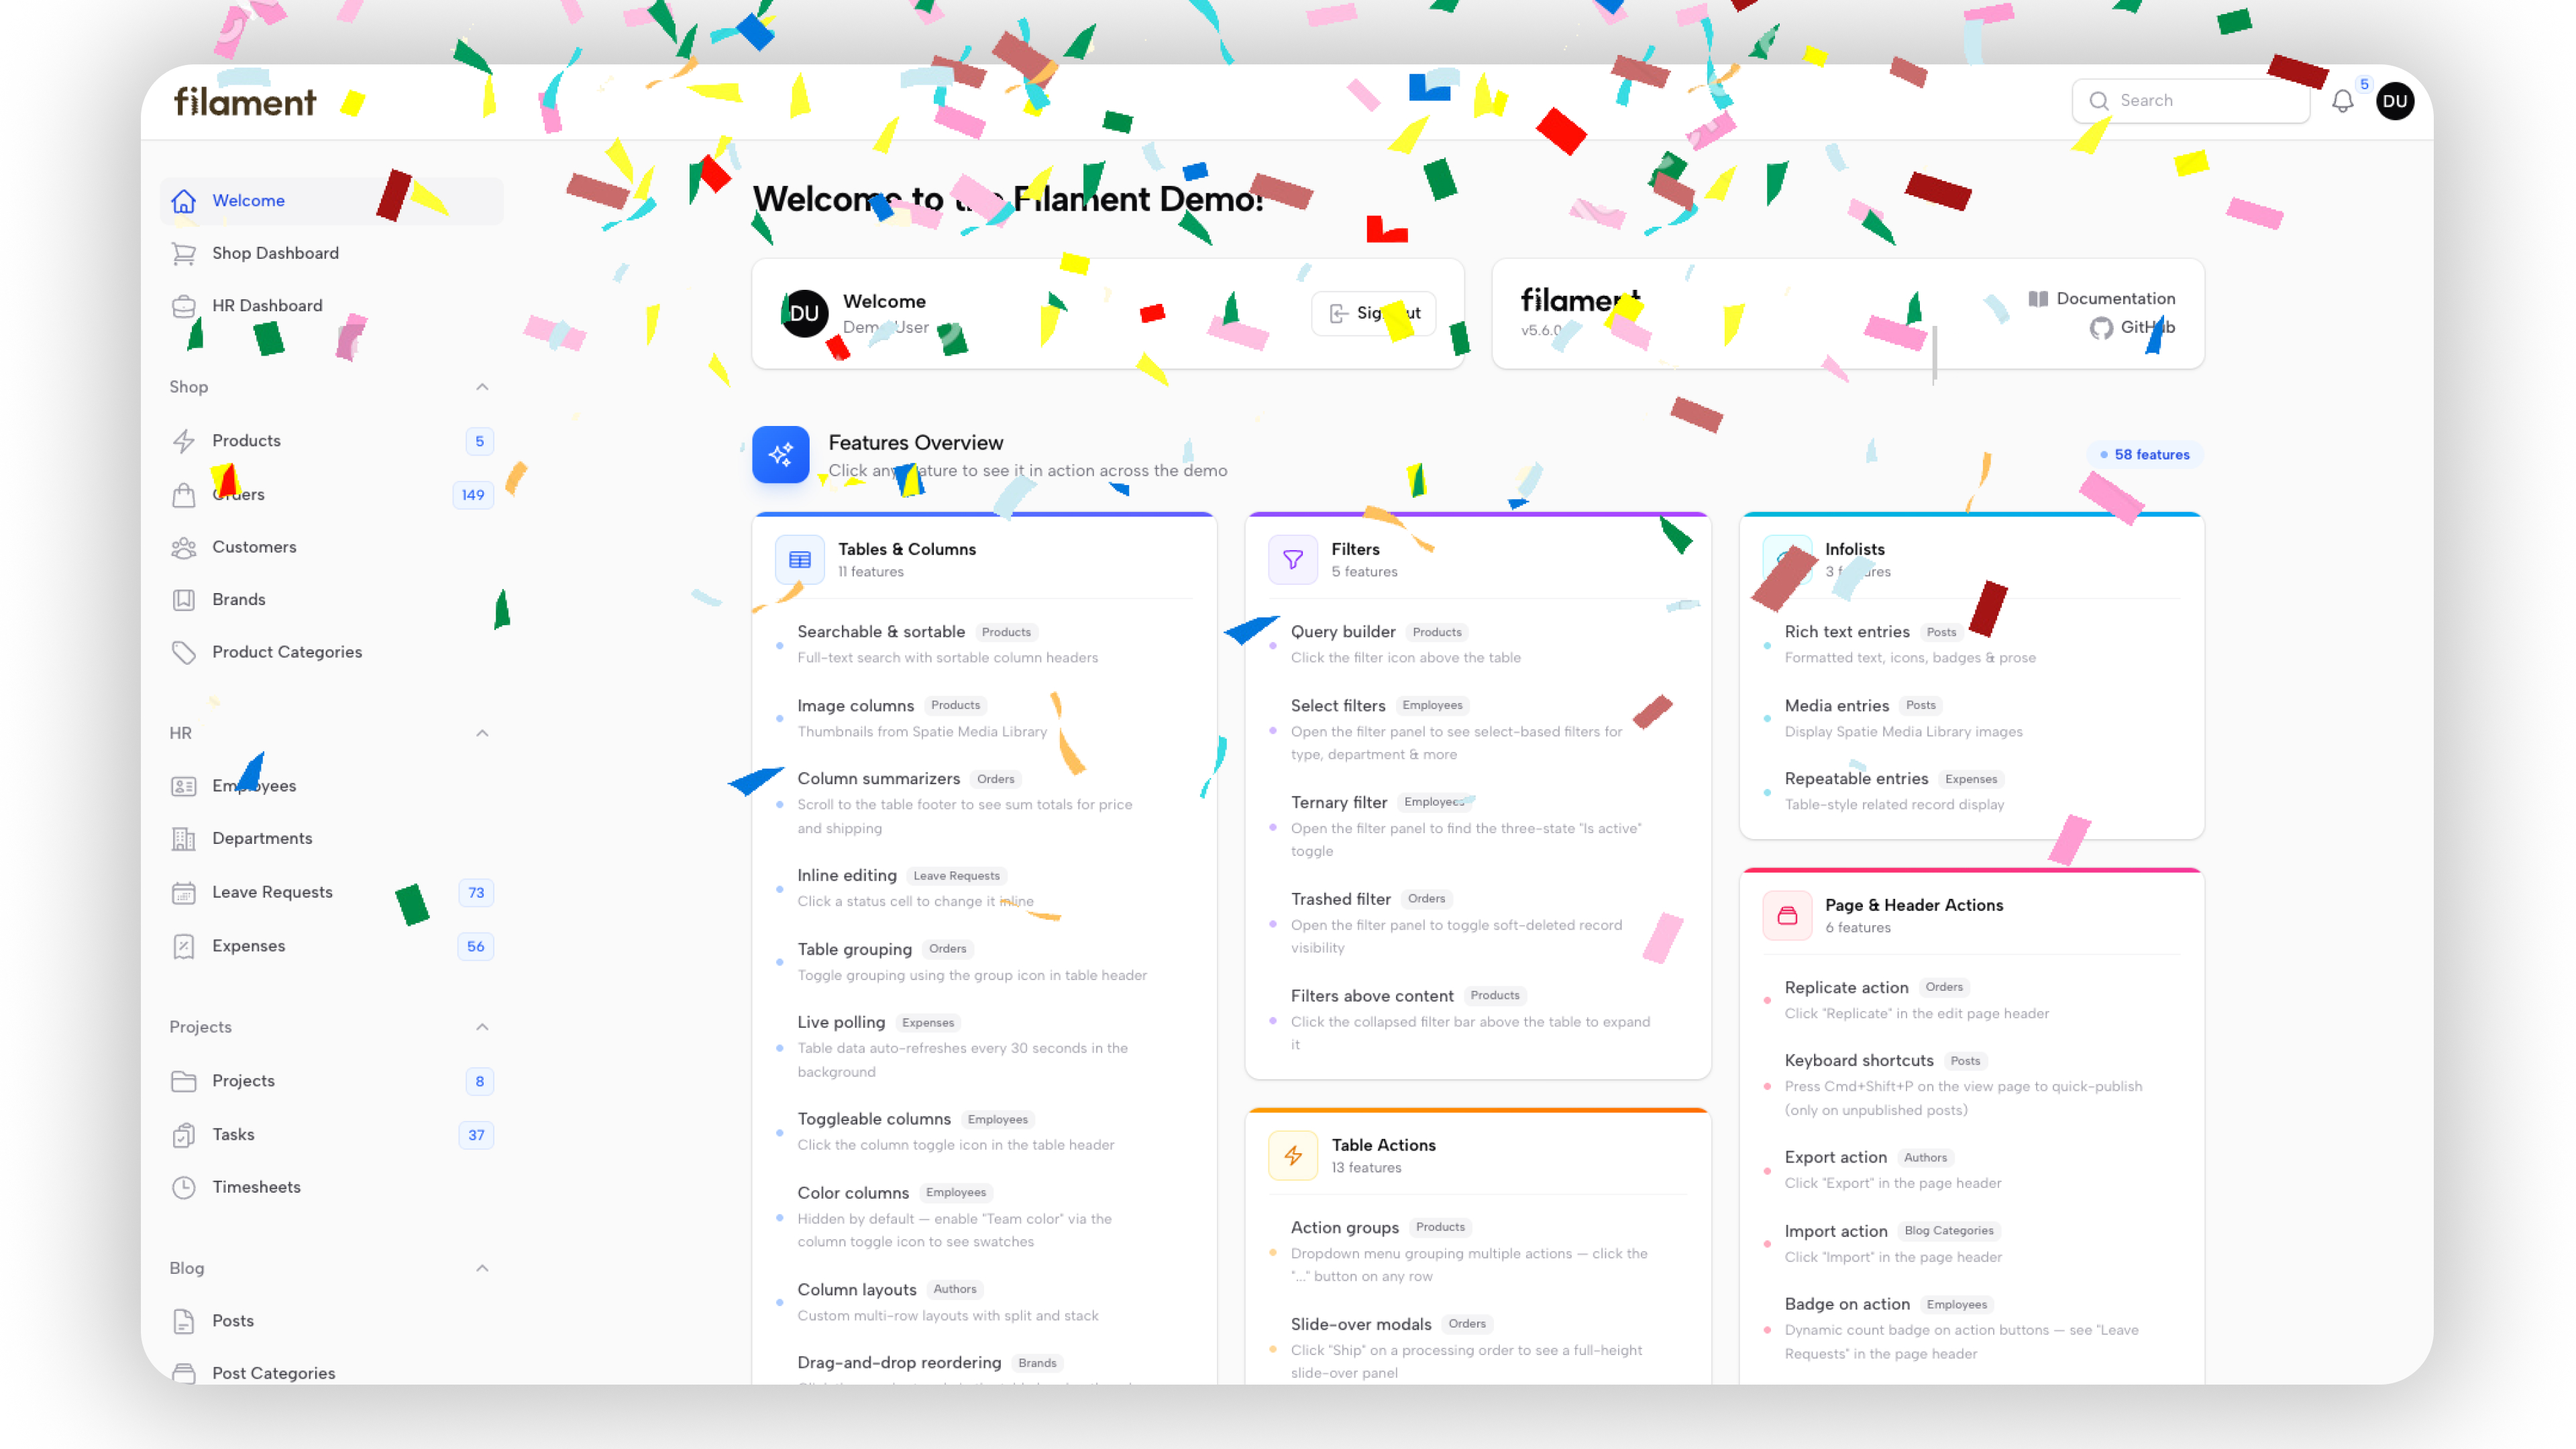
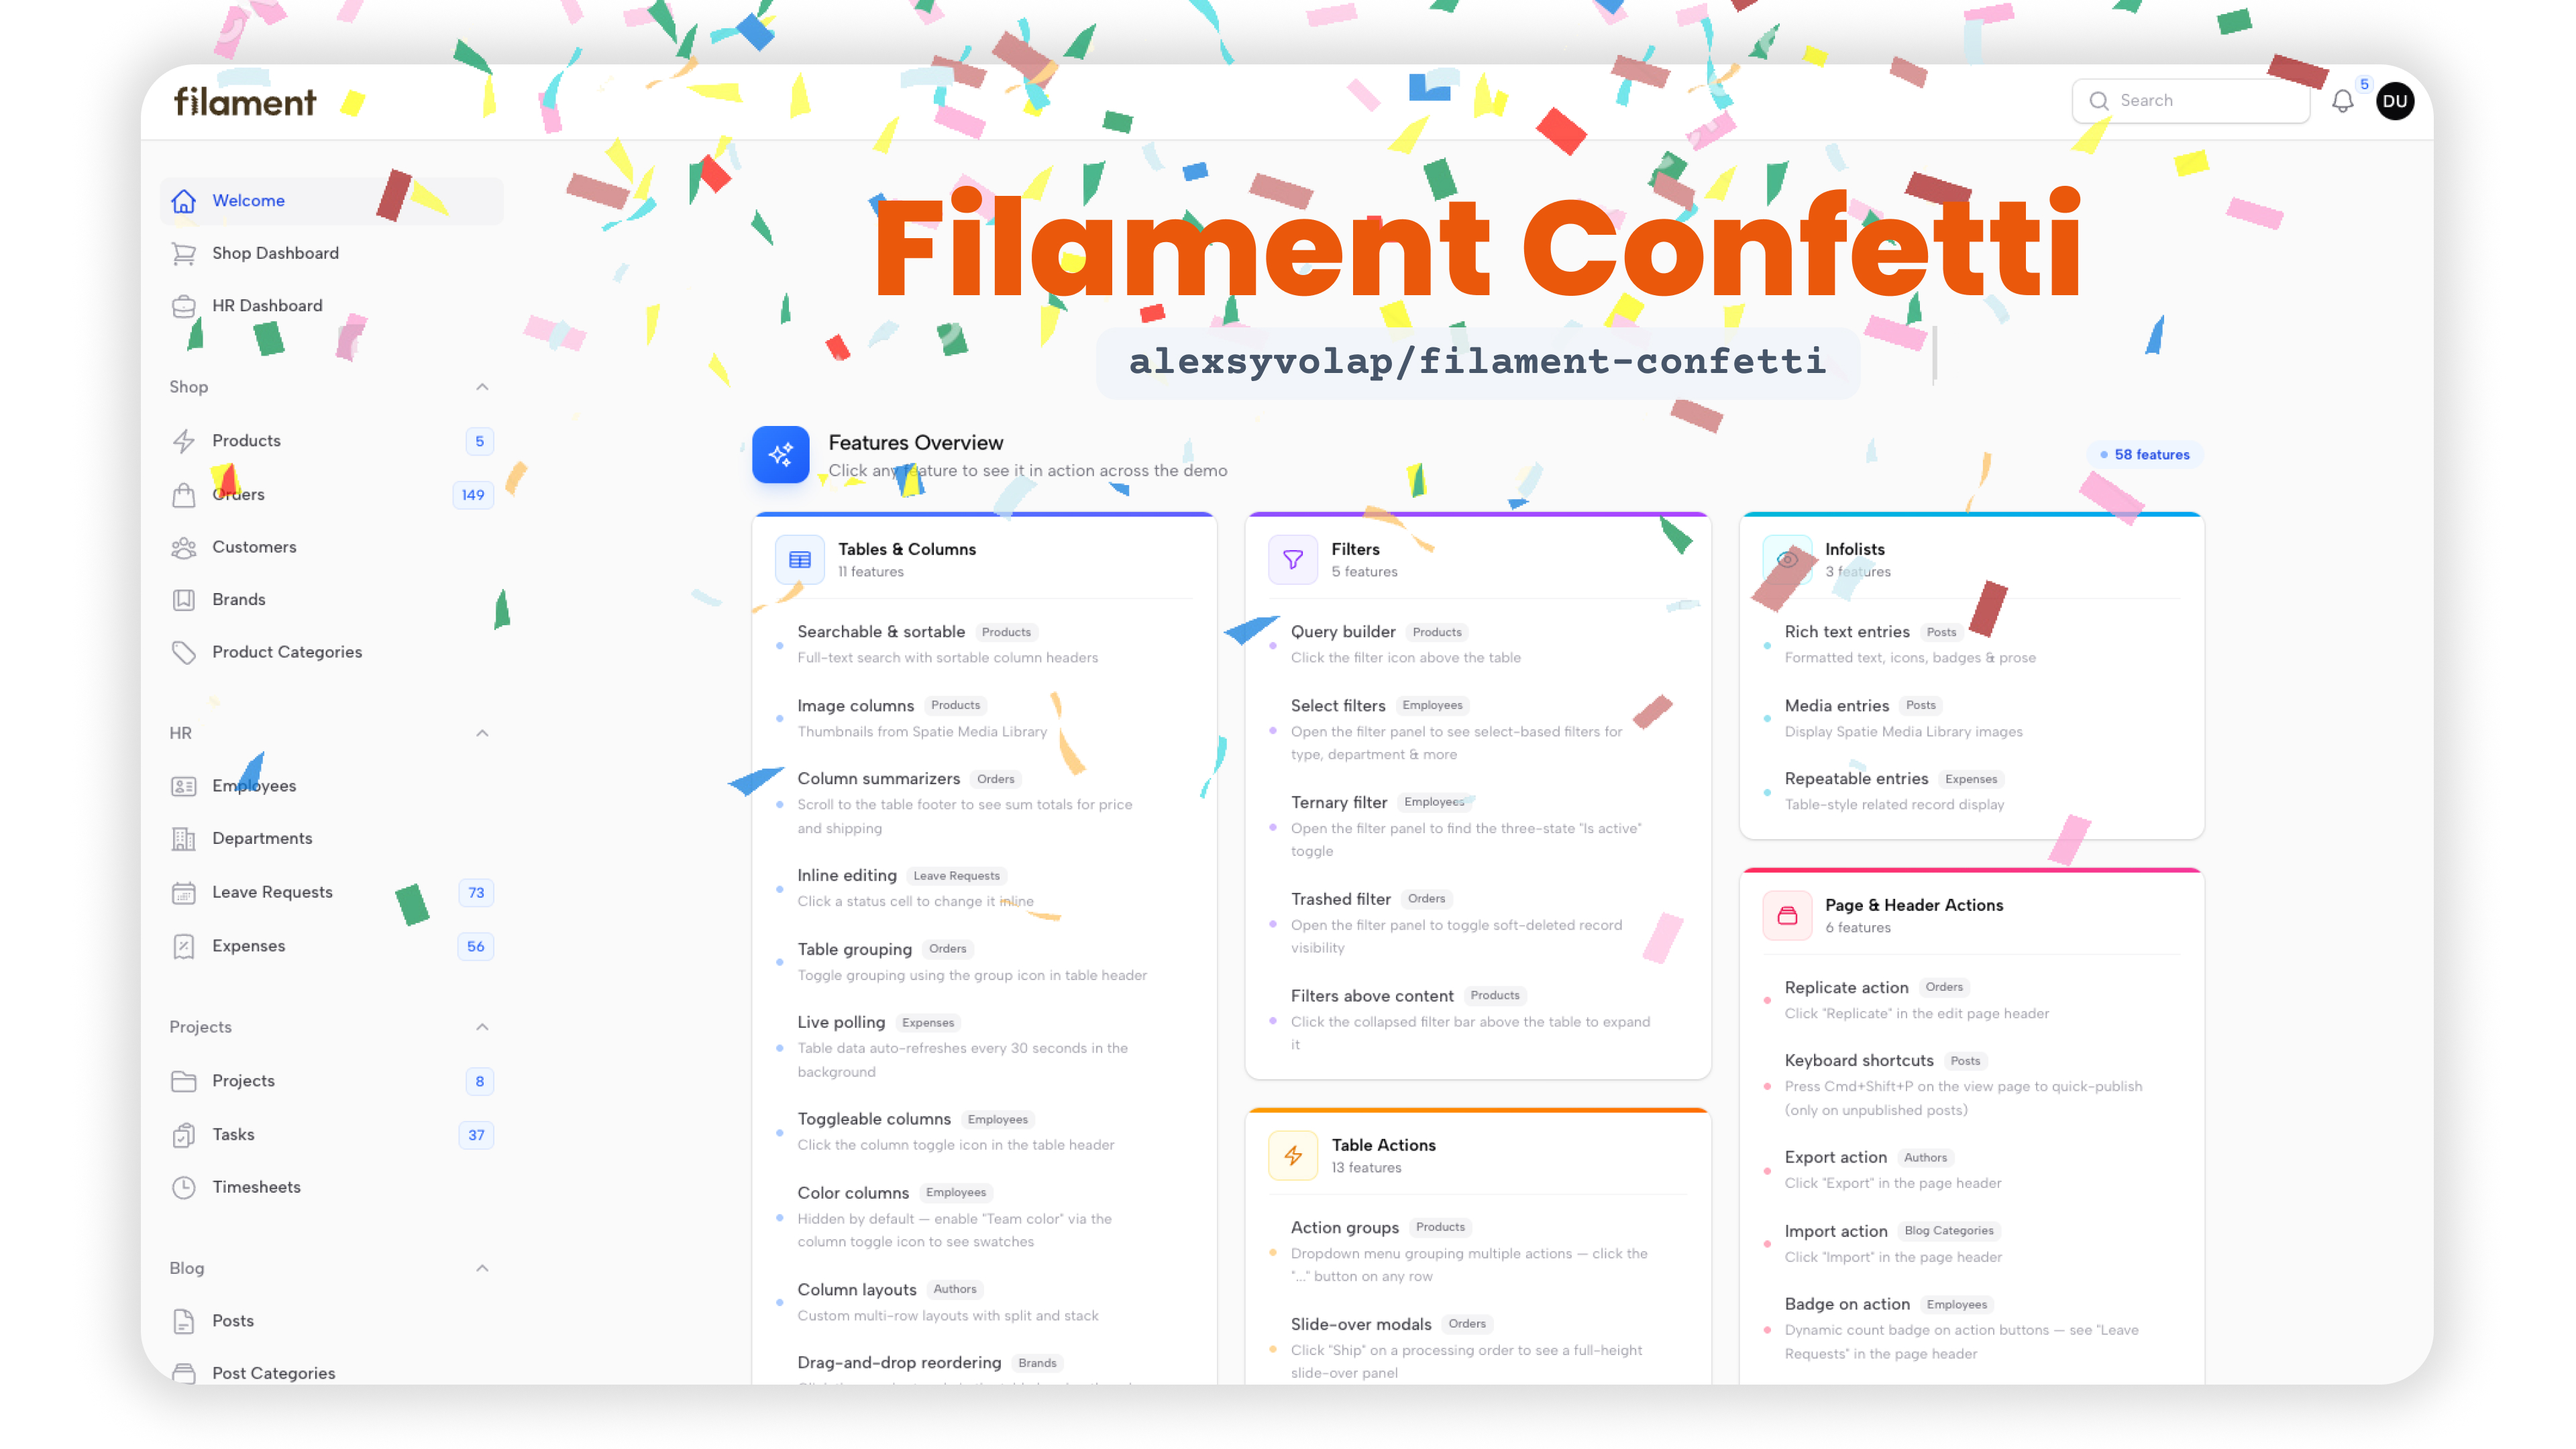
update: art & readme

diff --git a/README.md b/README.md
@@ -1,6 +1,6 @@
 # Filament Confetti 🎉
 
-![Defaul Confetti](./art/confetti.jpg)
+<img src="./art/confetti.jpg" alt="Filament Confetti" class="filament-hidden">
 
 A fluent, elegant, and zero-config Confetti integration for Filament PHP.
 Powered by the amazing [canvas-confetti](https://github.com/catdad/canvas-confetti) library, this package brings
